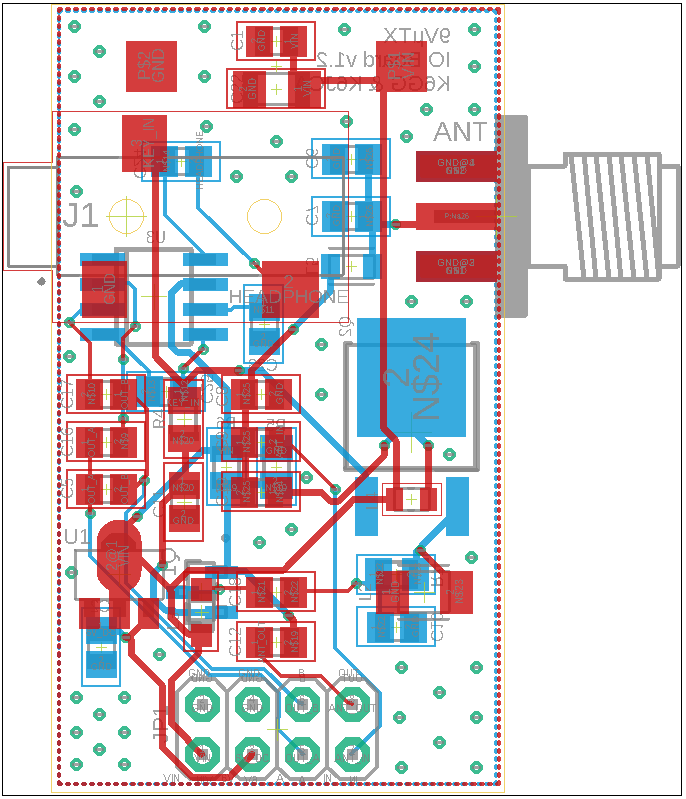
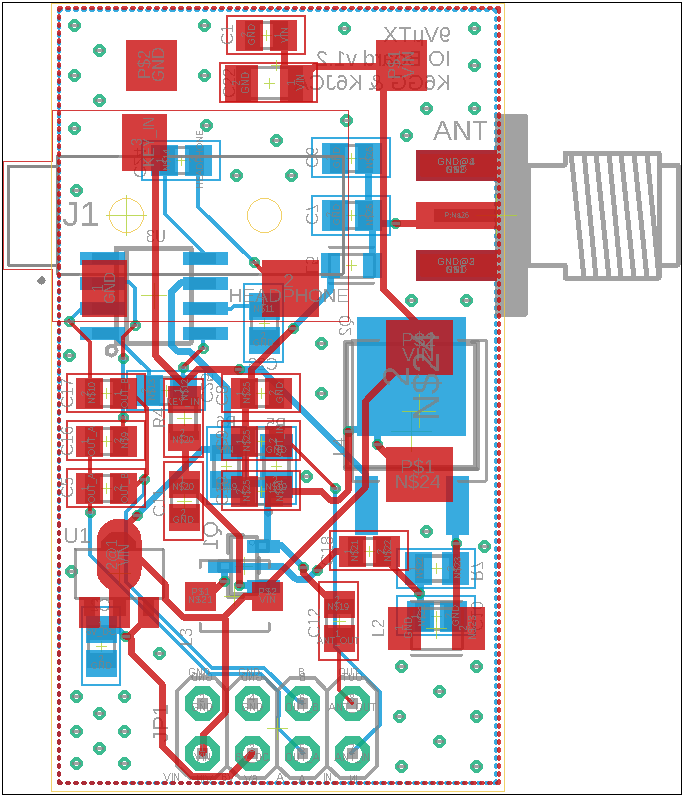
Image updates
* new boards and schematics
* new photos of smd prototypes

diff --git a/README.md b/README.md
@@ -14,19 +14,20 @@ and an external keyer for sending.
 This design is intended to allow modifying the center frequency of the transciever by
 changing out the oscillator crystal without re-soldering any parts. 
 
+**This is still a work in progress.**
 
-## Notes
-
-This is still a work in progress. The prototype I have made so far using a proto board
-is extremely sensitive and does not behave as originally intended, but it does transmit
-and receive.
-
-I will update here with real photos of the prototypes and actual SMD versions as I build them.
-
-
-I have devided up the functionality across two small PCBs and used a 6-pin jumper between them.
+I have devided up the functionality across two small PCBs and used a 8-pin jumper between them.
 This gives a bit more room to spread out the components, and hopefully avoid unwanted interactions.
 It should also give a bit larger ground plane, which should help with environmental sensitivity.
+
+The transmitter has an observed harmonic transmission on 14m, which might necessitate an external 
+band pass filter board at some point.
+
+The power output in my experiements so far has been quite small, in the 50-100mW range. 
+
+The effective receive and transmit frequencies can also be apart from one another by enough that
+you may not hear someone responding directly on your transmit frequency. This seems to be worse
+at either extreme of the VXO adjustment, but not verified by data yet.
 
 
 ## Schematics
@@ -45,8 +46,21 @@ It should also give a bit larger ground plane, which should help with environmen
 
 ## ProtoBoard Prototype 
 
+This prototype is extremely sensitive to capacitance (even touch), and lacks a true ground plane,
+though I added through-hole-pins to act as grounding feet on my steel work table. 
+
 ![proto board](https://raw.githubusercontent.com/zortness/9v_cw_tx/master/proto_board.jpg)
 
-This prototype is extremely sensitive to capacitance (even touch), and lacks a true ground plane,
-though I added through-hole-pins to act as grounding feet on my steel work table.
+
+## SMD Prototypes
+
+I've gone through a few SMD prototypes and made a number of pad and routing mistakes. I also chose
+a number of parts poorly or just completely misread the units on the part values (nH != uH, pF != uF). 
+
+I will update when one of the boards can operate without any further modification.
+
+![proto board](https://raw.githubusercontent.com/zortness/9v_cw_tx/master/smd_proto_01.jpg)
+![proto board](https://raw.githubusercontent.com/zortness/9v_cw_tx/master/smd_proto_02.jpg)
+![proto board](https://raw.githubusercontent.com/zortness/9v_cw_tx/master/smd_proto_03.jpg)
+![proto board](https://raw.githubusercontent.com/zortness/9v_cw_tx/master/smd_proto_04.jpg)
 
